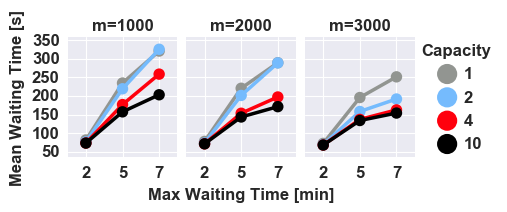
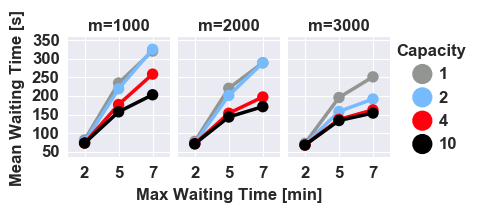
made width slightly smaller

diff --git a/scripts/plot_metrics.py b/scripts/plot_metrics.py
@@ -78,7 +78,7 @@ def prettify(text):
     if text == "n_shared_perc":
         return "% of Shared Trips"
     if text == "km_travelled_per_car":
-        return "Mean Travel Dist [km]"
+        return "Mean Travel [km]"
     if text == "serviced_percentage":
         return "% Serviced Requests"
     if text == "comp_time":
@@ -327,7 +327,7 @@ def make_avg_plots(big_d, plot_type):
         min_val = None
         axes = list()
         fig = plt.figure()
-        fig.set_size_inches(1.4 * 3.2, 1.5)
+        fig.set_size_inches(1.3 * 3.2, 1.5)
         for i, v in enumerate(iover, start=1):
             plt.subplot(1, len(iover), i)
             plt.subplots_adjust(wspace=0.08)
